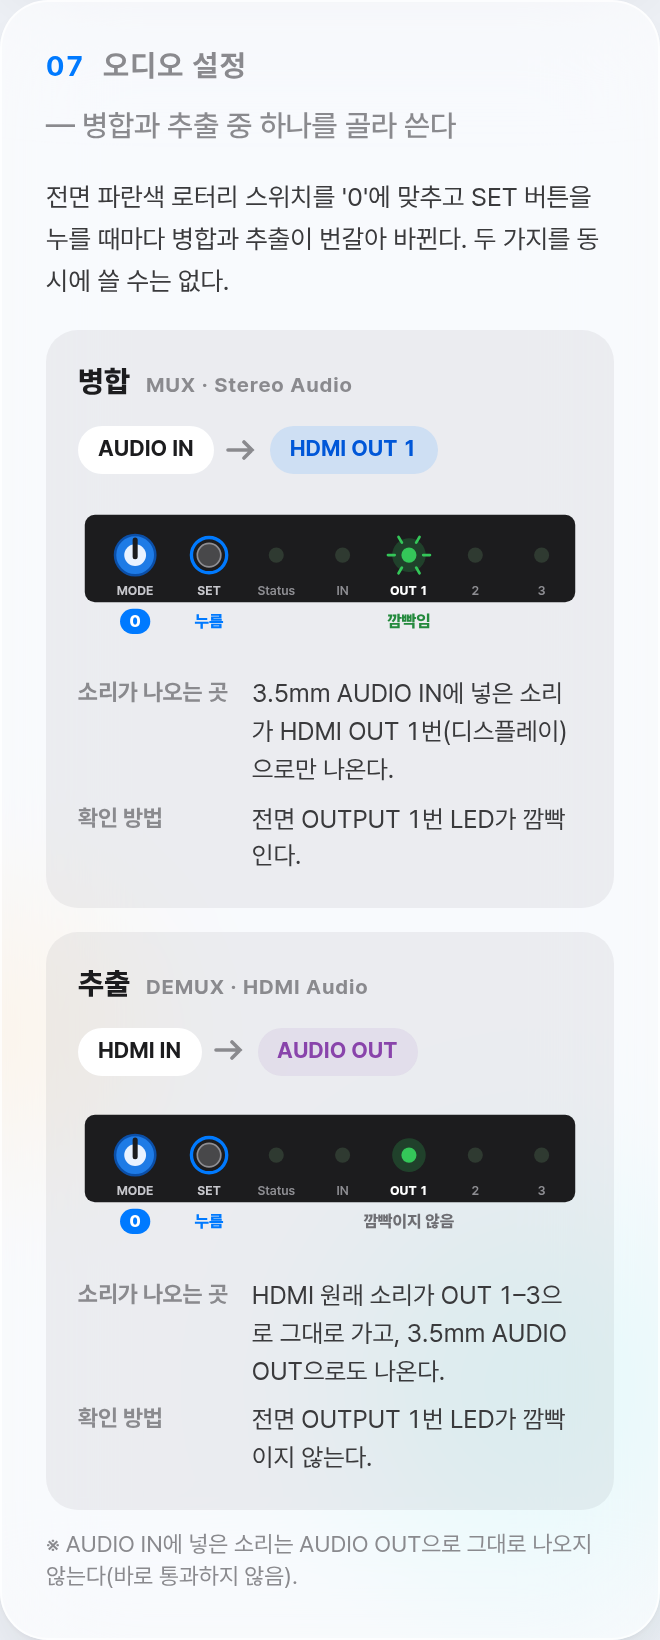
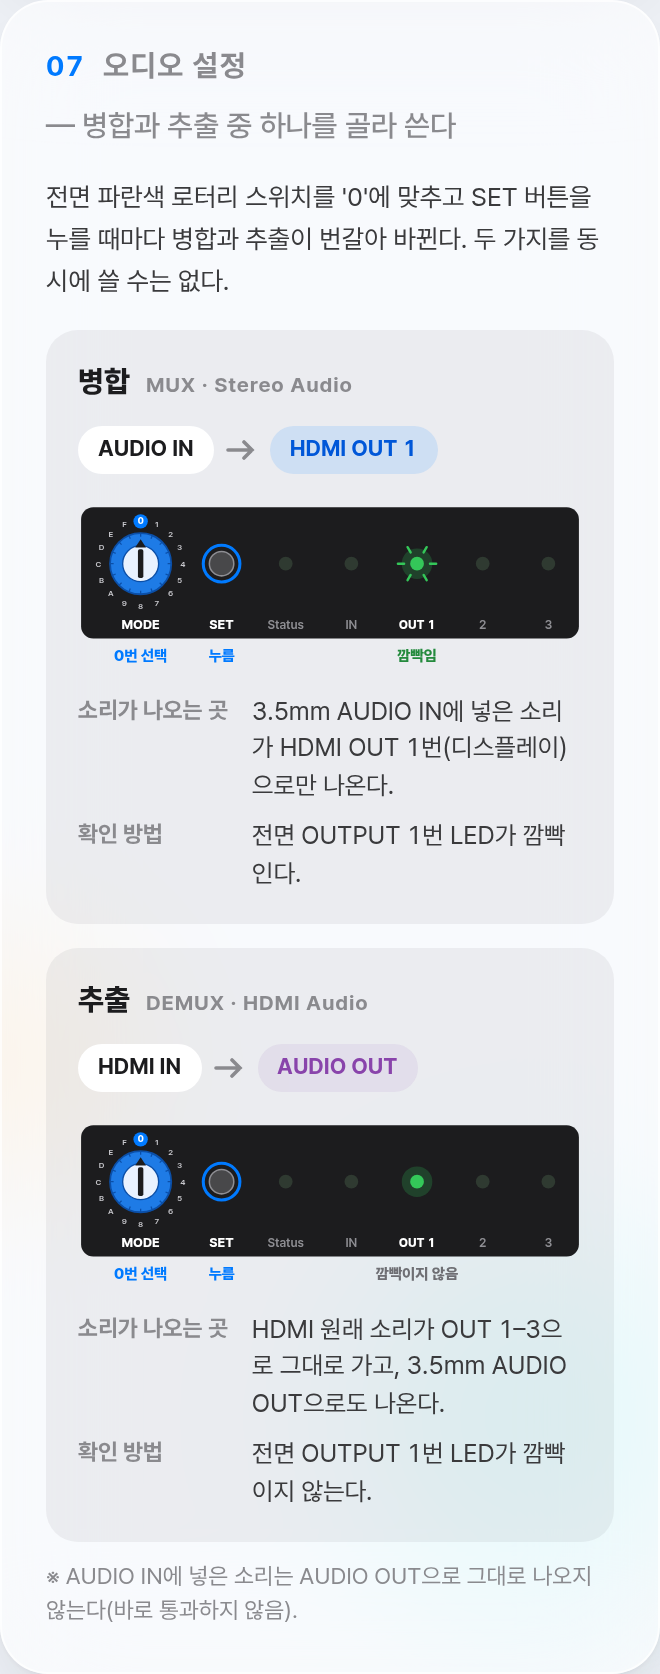
style: HD-13U 오디오 설정 패널의 로터리를 EDID 카드와 같은 16단 그림으로 교체(0번 선택)
Claude-Session: https://claude.ai/code/session_01V3dms2CC6NHWtyRSKKrJnV

diff --git a/src/products.js b/src/products.js
@@ -529,7 +529,8 @@
     // ---- 전면 컨트롤 강조(EDID 로터리 스위치 등, 0.35). edidSwitch가 있을 때만 전체 폭 카드로 보여준다 ----
     // ---- EDID 로터리 대표 설정 그림(0.59, 사용자 요청 "EDID 로터리 스위치도 대표적인 것을 DIP 스위치처럼 예상 이미지 만들어봐줘") ----
     // 제품 사진과 같은 파란 16단(0~F) 로터리를 그리고, 화살표가 고른 코드를 가리키게 한다. 0이 위쪽이고 시계 방향으로 1, 2 … F 순서다.
-    function rotaryGraphic(code){
+    // opts.dark: 어두운 패널 위에 그릴 때 눈금 글자를 밝게 한다. opts.box: [x,y,크기]를 주면 다른 SVG 안에 넣을 수 있게 위치를 붙인다(오디오 설정 패널 그림).
+    function rotaryGraphic(code,opts={}){
       const idx=parseInt(code,16);
       const S=112,c=S/2,labels='0123456789ABCDEF'.split('');
       const at=(i,r)=>{const a=(i*22.5-90)*Math.PI/180;return [c+r*Math.cos(a),c+r*Math.sin(a)]};
@@ -538,7 +539,8 @@
       body+=`<circle cx="${c}" cy="${c}" r="20" fill="#E9F2FF" stroke="#0B4FA8" stroke-width="1.5"/>`;
       const deg=idx*22.5;
       body+=`<g transform="rotate(${deg} ${c} ${c})"><rect x="${c-3}" y="${c-16}" width="6" height="32" rx="2" fill="#1C1C1E"/><path d="M${c} ${c-27}l-6 9h12z" fill="#1C1C1E"/></g>`;
-      labels.forEach((label,i)=>{const [x,y]=at(i,47);const on=i===idx;body+=on?`<circle cx="${x.toFixed(1)}" cy="${y.toFixed(1)}" r="8" fill="#007AFF"/><text x="${x.toFixed(1)}" y="${(y+3.5).toFixed(1)}" text-anchor="middle" font-size="10" font-weight="800" fill="#fff">${label}</text>`:`<text x="${x.toFixed(1)}" y="${(y+3.2).toFixed(1)}" text-anchor="middle" font-size="9" font-weight="600" fill="#8A8A8E">${label}</text>`;});
+      labels.forEach((label,i)=>{const [x,y]=at(i,47);const on=i===idx;body+=on?`<circle cx="${x.toFixed(1)}" cy="${y.toFixed(1)}" r="8" fill="#007AFF"/><text x="${x.toFixed(1)}" y="${(y+3.5).toFixed(1)}" text-anchor="middle" font-size="10" font-weight="800" fill="#fff">${label}</text>`:`<text x="${x.toFixed(1)}" y="${(y+3.2).toFixed(1)}" text-anchor="middle" font-size="9" font-weight="600" fill="${opts.dark?'#C7C7CC':'#8A8A8E'}">${label}</text>`;});
+      if(opts.box){const [bx,by,bs]=opts.box;return `<svg x="${bx}" y="${by}" width="${bs}" height="${bs}" viewBox="0 0 ${S} ${S}">${body}</svg>`;}
       return `<svg viewBox="0 0 ${S} ${S}" width="${S}" height="${S}" role="img" aria-label="EDID 로터리 ${esc(code)}번">${body}</svg>`;
     }
     // 대표 설정: 기본값 코드(edidSwitch.default의 "0 = …" 앞 글자)와 자주 쓰는 코드(table[].highlight)를 코드 순으로 최대 4개 보여준다.
@@ -608,23 +610,25 @@
     // 깜빡임은 CSS 애니메이션(rt-pg-led-blink)으로 보여주고, 움직임 줄이기 설정이나 인쇄에서도 알 수 있게 LED 둘레에 빛 표시를 함께 그린다.
     function audioPanelGraphic(panel,mode){
       const leds=panel.leds||[];
-      const W=300,H=92,py=10,ph=52,cx=34,cy=py+ph/2-2,bx=78;
-      let body=`<rect x="4" y="${py}" width="${W-8}" height="${ph}" rx="6" fill="#1C1C1E"/>`;
-      body+=`<circle cx="${cx}" cy="${cy}" r="12" fill="#1E7BE6" stroke="#0B4FA8" stroke-width="1.5"/><circle cx="${cx}" cy="${cy}" r="6.5" fill="#E9F2FF"/><path d="M${cx} ${cy-9}v10" stroke="#1C1C1E" stroke-width="3" stroke-linecap="round"/>`;
-      body+=`<rect x="${cx-9}" y="${py+ph+4}" width="18" height="15" rx="7.5" fill="#007AFF"/><text x="${cx}" y="${py+ph+15}" text-anchor="middle" font-size="10" font-weight="800" fill="#fff">${esc(panel.rotary?.value??'0')}</text>`;
-      body+=`<text x="${cx}" y="${py+ph-4}" text-anchor="middle" font-size="7.5" font-weight="700" fill="#C7C7CC">${esc(panel.rotary?.label||'MODE')}</text>`;
-      body+=`<circle cx="${bx}" cy="${cy}" r="7" fill="#48484A" stroke="#8E8E93" stroke-width="1"/><circle cx="${bx}" cy="${cy}" r="10.5" fill="none" stroke="#007AFF" stroke-width="2"/>`;
-      body+=`<text x="${bx}" y="${py+ph-4}" text-anchor="middle" font-size="7.5" font-weight="700" fill="#C7C7CC">${esc(panel.button||'SET')}</text><text x="${bx}" y="${py+ph+15}" text-anchor="middle" font-size="10" font-weight="800" fill="#007AFF">누름</text>`;
-      const x0=118,gap=(W-24-x0)/Math.max(1,leds.length-1);
+      // 로터리는 EDID 설정 카드와 같은 16단(0~F) 그림을 작게 넣고 panel.rotary.value를 가리키게 한다(사용자 요청 2026-09-27 "MODE 글자 위 기존 로터리로 변경해줘").
+      const W=330,H=112,py=6,ph=86,rs=66,rx=8,cx=rx+rs/2,cy=py+4+rs/2,labelY=py+ph-6,bx=94;
+      const value=String(panel.rotary?.value??'0').toUpperCase();
+      let body=`<rect x="2" y="${py}" width="${W-4}" height="${ph}" rx="8" fill="#1C1C1E"/>`;
+      body+=rotaryGraphic(value,{dark:true,box:[rx,py+4,rs]});
+      body+=`<text x="${cx}" y="${labelY}" text-anchor="middle" font-size="8.5" font-weight="800" fill="#fff">${esc(panel.rotary?.label||'MODE')}</text>`;
+      body+=`<text x="${cx}" y="${py+ph+15}" text-anchor="middle" font-size="10" font-weight="800" fill="#007AFF">${esc(value)}번 선택</text>`;
+      body+=`<circle cx="${bx}" cy="${cy}" r="8" fill="#48484A" stroke="#8E8E93" stroke-width="1"/><circle cx="${bx}" cy="${cy}" r="12" fill="none" stroke="#007AFF" stroke-width="2"/>`;
+      body+=`<text x="${bx}" y="${labelY}" text-anchor="middle" font-size="8.5" font-weight="800" fill="#fff">${esc(panel.button||'SET')}</text><text x="${bx}" y="${py+ph+15}" text-anchor="middle" font-size="10" font-weight="800" fill="#007AFF">누름</text>`;
+      const x0=136,gap=(W-22-x0)/Math.max(1,leds.length-1);
       leds.forEach((label,i)=>{
         const x=x0+i*gap,on=label===panel.target,blink=on&&mode.led==='blink';
         if(on)body+=`<circle cx="${x}" cy="${cy}" r="10" fill="#34C759" opacity=".22"/>`;
         if(blink)body+=`<g stroke="#34C759" stroke-width="1.6" stroke-linecap="round">${[0,60,120,180,240,300].map(a=>{const r1=8.5,r2=12.5,rad=a*Math.PI/180;return `<path d="M${(x+r1*Math.cos(rad)).toFixed(1)} ${(cy+r1*Math.sin(rad)).toFixed(1)}L${(x+r2*Math.cos(rad)).toFixed(1)} ${(cy+r2*Math.sin(rad)).toFixed(1)}"/>`}).join('')}</g>`;
         body+=`<circle cx="${x}" cy="${cy}" r="4.5" fill="${on?'#34C759':'#2F3A31'}"${blink?' class="rt-pg-led-blink"':''}/>`;
-        body+=`<text x="${x}" y="${py+ph-4}" text-anchor="middle" font-size="7.5" font-weight="${on?800:600}" fill="${on?'#fff':'#8E8E93'}">${esc(label)}</text>`;
+        body+=`<text x="${x}" y="${labelY}" text-anchor="middle" font-size="8" font-weight="${on?800:600}" fill="${on?'#fff':'#8E8E93'}">${esc(label)}</text>`;
         if(on)body+=`<text x="${x}" y="${py+ph+15}" text-anchor="middle" font-size="10" font-weight="800" fill="${blink?'#248A3D':'#6E6E73'}">${blink?'깜빡임':'깜빡이지 않음'}</text>`;
       });
-      return `<svg class="rt-pg-audio-panel" viewBox="0 0 ${W} ${H}" width="100%" role="img" aria-label="${esc(`${panel.rotary?.label||'MODE'} ${panel.rotary?.value??'0'} + ${panel.button||'SET'} → ${panel.target} LED ${mode.led==='blink'?'깜빡임':'깜빡이지 않음'}`)}">${body}</svg>`;
+      return `<svg class="rt-pg-audio-panel" viewBox="0 0 ${W} ${H}" width="100%" role="img" aria-label="${esc(`${panel.rotary?.label||'MODE'} 로터리 ${value}번 + ${panel.button||'SET'} 누름 → ${panel.target} LED ${mode.led==='blink'?'깜빡임':'깜빡이지 않음'}`)}">${body}</svg>`;
     }
     function audioMuxSection(item){
       const am=item.audioMux;

diff --git a/src/styles.css b/src/styles.css
@@ -858,7 +858,7 @@ html{background:#f3f3ef}body{margin:0;padding:24px 16px;font-family:Arial,'Malgu
 #rtcom-design .rt-pg-spec-table td .rt-pg-note-line{margin-top:2px}
 
 /* 0.61 오디오 설정 전면 패널 그림(LED 불 켜짐) */
-#rtcom-design .rt-pg-audio-panel{display:block;max-width:340px;height:auto;margin:0 0 12px}
+#rtcom-design .rt-pg-audio-panel{display:block;max-width:380px;height:auto;margin:0 0 12px}
 #rtcom-design .rt-pg-led-blink{animation:rt-pg-led-blink 1s steps(1,end) infinite}
 @keyframes rt-pg-led-blink{50%{fill:#2F3A31}}
 @media (prefers-reduced-motion:reduce){#rtcom-design .rt-pg-led-blink{animation:none}}

diff --git a/CHANGELOG.md b/CHANGELOG.md
@@ -15,7 +15,7 @@
 ## 0.61.0
 
 - **HD-13U 07 오디오 설정 잘림 수정**(사용자 지적 "13U 07 오디오가 잘린다"): 오디오 설정 카드(병합·추출 두 칸)가 05 옆 좁은 칸(약 360px)에 들어가 추출 칸 오른쪽이 잘리고, 06 EDID 설정보다 먼저 보여 번호가 07 → 06 순서로 뒤집혔습니다. EDID 설정이 있는 제품은 06 EDID → 07 오디오 순서로 둘 다 전체 폭 아래에 두도록 바꿨습니다(현재 해당 제품은 HD-13U뿐). HD-13U는 병합·추출을 모두 지원하되 하나만 골라 쓰는 방식 그대로입니다.
-- **HD-13U 오디오 설정 전면 패널 그림**(사용자 요청 "HD-13U 07 오디오 설정 부분을 DIP 이미지처럼 불 켜짐을 만들어줘"): 병합·추출 칸마다 전면 패널 그림을 넣었습니다. 파란 MODE 로터리를 0에 맞추고 SET 버튼을 누르는 모습과 Status·IN·OUT 1·2·3 LED를 그리고, 확인용 OUT 1 LED를 병합에서는 깜빡이게(빛 표시 + 1초 깜빡임), 추출에서는 켜진 채 깜빡이지 않게 그렸습니다. 움직임 줄이기 설정에서는 깜빡임 애니메이션 없이 빛 표시로만 구분합니다. 데이터: `audioMux.panel`(`rotary`·`button`·`leds`·`target`), `modes[].led`(`blink`·`steady`), validator 규칙 추가.
+- **HD-13U 오디오 설정 전면 패널 그림**(사용자 요청 "HD-13U 07 오디오 설정 부분을 DIP 이미지처럼 불 켜짐을 만들어줘"): 병합·추출 칸마다 전면 패널 그림을 넣었습니다. EDID 설정 카드와 같은 16단(0~F) MODE 로터리가 0번을 가리키고 SET 버튼을 누르는 모습과 Status·IN·OUT 1·2·3 LED를 그리고, 확인용 OUT 1 LED를 병합에서는 깜빡이게(빛 표시 + 1초 깜빡임), 추출에서는 켜진 채 깜빡이지 않게 그렸습니다. 움직임 줄이기 설정에서는 깜빡임 애니메이션 없이 빛 표시로만 구분합니다. 데이터: `audioMux.panel`(`rotary`·`button`·`leds`·`target`), `modes[].led`(`blink`·`steady`), validator 규칙 추가.
 - **HD-210U 07 딥 스위치 설정 카드**(사용자 요청 "210U 매뉴얼을 읽고 DIP 스위치 셋팅을 아까처럼 만들어줘"): HD-210U 매뉴얼 Ver.1.2 7쪽 근거로 1번 오디오 병합(OFF: HDMI Audio / ON: 3.5mm Stereo Audio를 모든 출력에 믹스), 2번 DDC 방식(OFF: DDC Buffer / ON: DDC Level Shifter)을 HDS와 같은 OFF·ON 그림 카드로 추가했습니다. 정면 사진의 빨간 MODE 딥 스위치는 레버 3개로 보여 그림도 3개로 그리고, 매뉴얼에 있는 1·2번만 설명합니다. "HD-210U는 병합만 되고 추출(AUDIO OUT)은 없다"를 1번 아래에 적었습니다(사용자 확인).
 - 같은 내용이 겹치지 않도록 HD-210U 04 제품 사양의 "딥 스위치 1·2" 행을 빼고, 05 주요 기능의 딥 스위치 두 문장을 한 줄 요약으로 줄이고, 06 EDID 설정 설명의 딥 스위치 문장을 07 카드 안내로 바꿨습니다.
 - e2e: HD-210U 딥 스위치 카드(2행·그림 4개·07 번호·AUDIO OUT 없음), HD-13U 오디오 설정 위치(전체 폭·06 다음·잘림 없음) 확인 추가. QA: `docs/qa/HD13U_AUDIO_HD210U_DIP_QA_2026-09-27.md`.

diff --git a/docs/qa/HD13U_AUDIO_HD210U_DIP_QA_2026-09-27.md b/docs/qa/HD13U_AUDIO_HD210U_DIP_QA_2026-09-27.md
@@ -19,6 +19,7 @@
 - 확인용 LED(OUT 1)만 초록으로 켜고 나머지는 어둡게 그립니다(딥 스위치 그림에서 설명하는 번호만 또렷하게 그린 것과 같은 방식). 병합은 OUT 1 둘레에 빛 표시를 그리고 1초 간격으로 깜빡이게 하며 아래에 "깜빡임"을 적습니다. 추출은 켜진 채 "깜빡이지 않음"입니다. 근거는 기존 확인 방법 문장(매뉴얼 Ver.1.2 7~8쪽, "전면 OUTPUT 1번 LED가 깜빡인다/깜빡이지 않는다")입니다.
 - Status·IN·OUT 2·3 LED가 실제로 켜져 있는지는 매뉴얼에 없어 어둡게 두었습니다. 움직임 줄이기 설정(`prefers-reduced-motion`)에서는 애니메이션을 끄고 빛 표시로만 구분합니다.
 - 데이터: `audioMux.panel` = `{rotary:{label:"MODE",value:"0"}, button:"SET", leds:["Status","IN","OUT 1","2","3"], target:"OUT 1"}`, `modes[].led` = `blink`(병합)·`steady`(추출). validator가 `target`이 `leds`에 있는지, `led` 값이 둘 중 하나인지 검사합니다.
+- 로터리 그림 교체(사용자 요청 "MODE 로터리 스위치를 0으로 선택하고 SET 버튼이야. MODE 글자 위 기존 로터리로 변경해줘"): 처음의 작은 손잡이 그림 대신 EDID 설정 카드와 같은 16단(0~F) 로터리(`rotaryGraphic`)를 패널 안에 작게 넣고 0번을 가리키게 했습니다. 어두운 패널 위라 눈금 글자를 밝게 바꾸는 옵션(`dark`)과 다른 그림 안에 넣는 옵션(`box`)을 추가했습니다. 그림 아래 표시는 "0번 선택" · "누름" · "깜빡임/깜빡이지 않음"입니다.
 - 화면: `docs/qa/hd13u-hd210u-screens/panel-desk.png`, `panel-mob.png`
 
 ## 3. HD-210U 07 딥 스위치 설정
